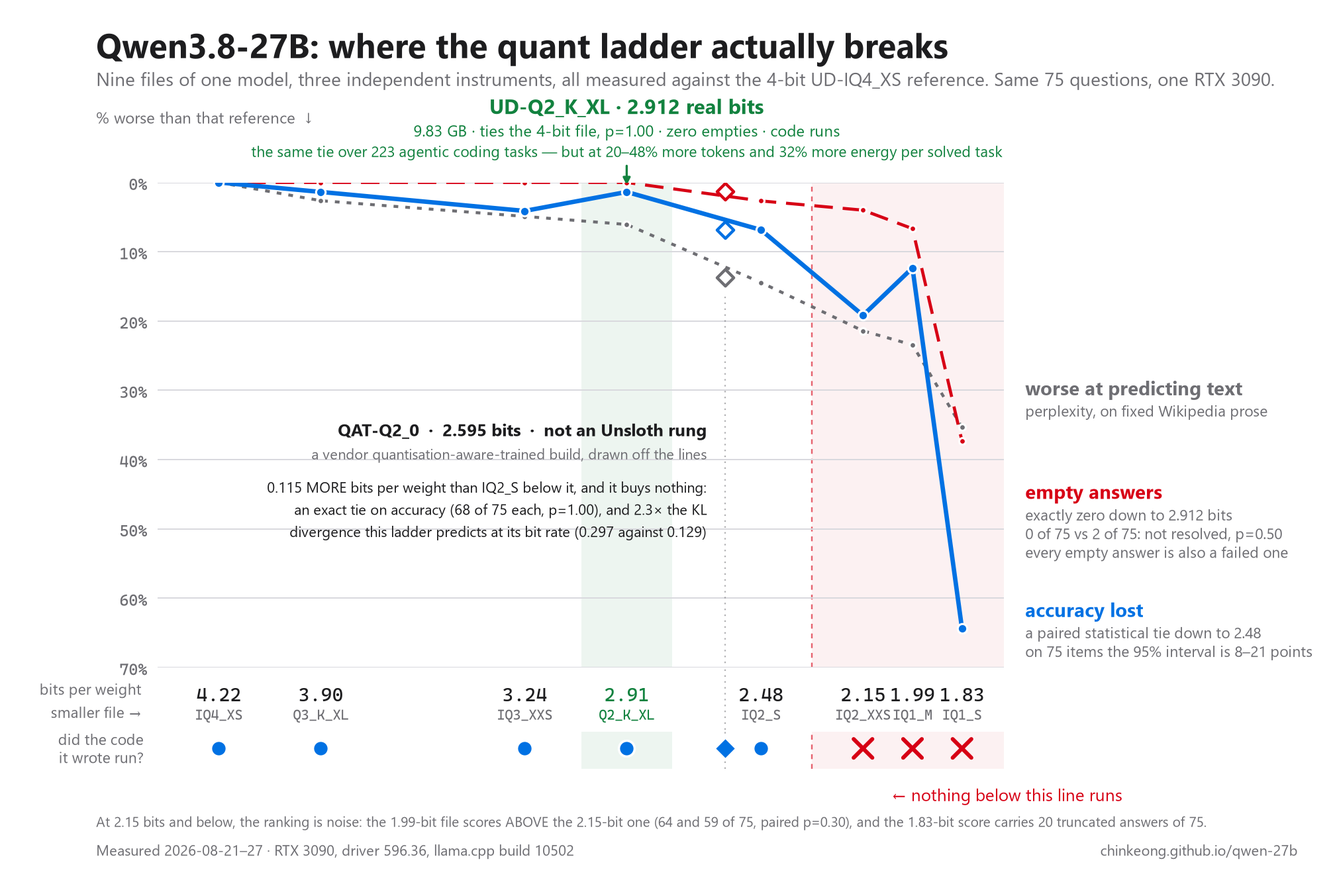
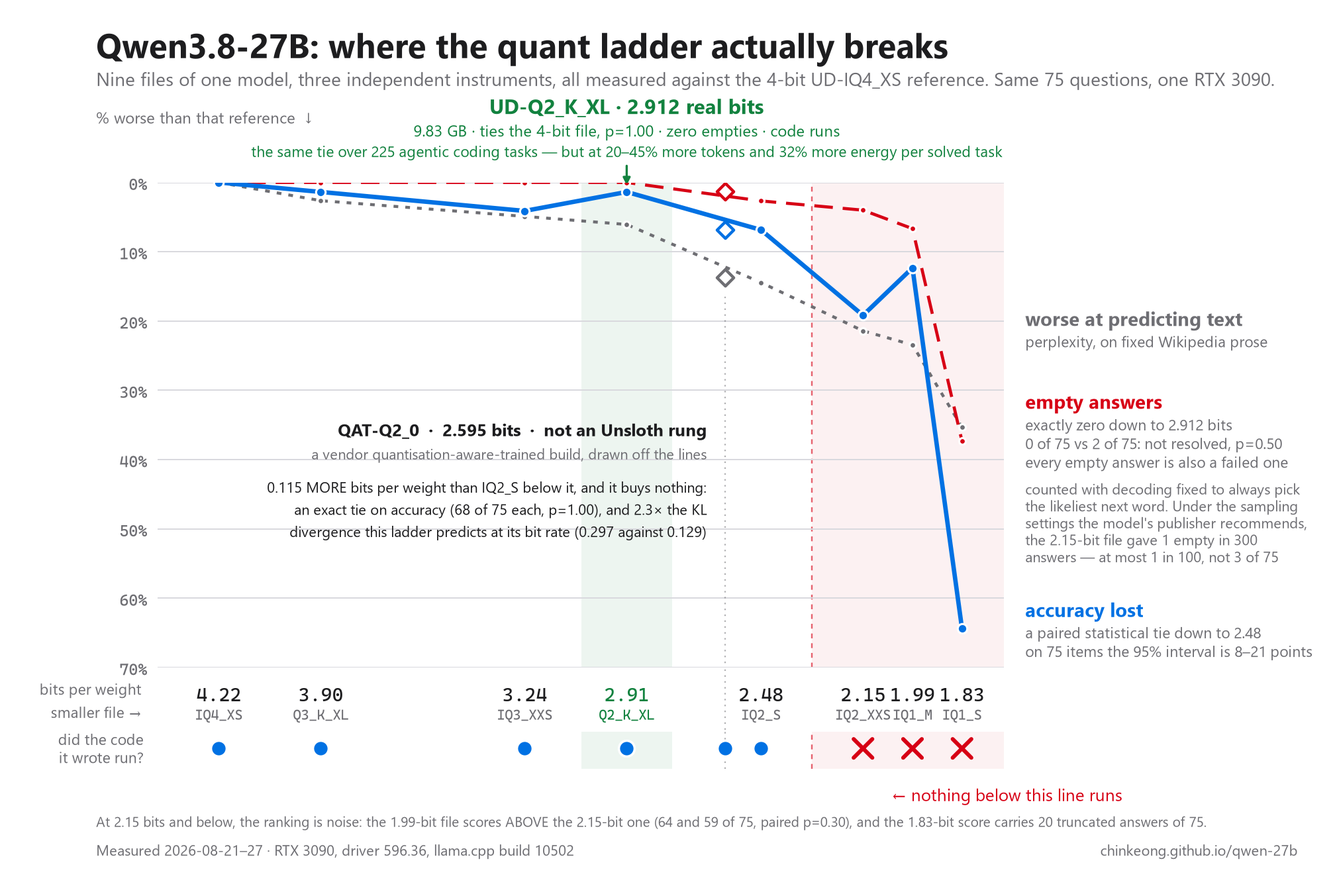
chart: two decisions applied, and the token range now agrees with the documents
CHART. The execute row's QAT-Q2_0 marker is an ordinary pass dot rather than a
diamond, so that row carries exactly two symbols again - it answers one yes/no
question and a third shape sent readers hunting for a third meaning. QAT stays
distinguished where it does real work: hollow diamonds on the three series, its
own annotation block, and its "not an Unsloth rung" label.

The empty-answer series now carries the caveat it needed. That column is counted
with decoding fixed to always pick the likeliest next word, and the campaign's
own runner says why that matters: "Greedy decoding cannot supply them: repeats
are identical, so re-running buys nothing. Sampling can, and sampling is what a
reader actually uses." Measured, from data\overnight\empties-power.json: under
the publisher's recommended sampling settings the 2.15-bit file gave 1 empty in
300 answers, at most 1 in 100, against the 3 of 75 the chart plots. A factor of
twelve, and without the line a reader takes 4% as a property of the file when it
is a property of the file AND the setting.

Two constraints were held in code rather than by care. The generator now refuses
to draw if the caveat's file drifts to the recommended side of the boundary, or
if the execute probe stops separating IQ2_S from IQ2_XXS - because the caveat
qualifies one series and must never soften the 2.481/2.153 break, which rests on
the execute probe and perplexity. And the unfinished UD-IQ1_M row in that JSON is
[…]

Changed region(s): [[0.75, 0.3438, 0.9688, 0.6562]]

diff --git a/qwen-27b/index.html b/qwen-27b/index.html
@@ -1720,7 +1720,7 @@ llama-server -c 32768 -ngl 99 --parallel 1 -ctk q8_0 -ctv q8_0 --jinja --port 12
 <section id="s08">
   <p class="fno">08</p>
   <h2>Which file to download</h2>
-  <p>On a 24&nbsp;GB card, download <strong>UD-IQ4_XS</strong> from unsloth for everyday use, or <strong>Q4_K_M</strong> from lmstudio-community if you want the highest measured quality and can accept that it leaves only about 0.3&nbsp;GiB of the card for your desktop. Two files of the same size from different quantizers really can differ in quality, so the choice is not arbitrary — but between these two the measured difference is 0.9% of perplexity, which is smaller than the uncertainty of the measurement itself, while the size difference is 2.1&nbsp;GiB and buys you either the vision projector or about 50,000 more tokens of window. If you have a 16&nbsp;GB card, take <strong>UD-Q2_K_XL</strong> — the memory each file and window needs is now measured rather than estimated, and it is the 2.9-bit file, not the 3-bit one, that fits a 65,536-token window with its drafter still switched on (<a href="#s08-requirement">the requirement table below</a>); if you have 32&nbsp;GB, <strong>Q6_K</strong>; and if you have a Blackwell card and can run vLLM, the NVFP4 build is the one that runs natively there. <strong>If you have 12&nbsp;GB, the answer is no</strong> — not a smaller quantization of this model, but a smaller model. <strong>And the 24&nbsp;GB answer is the interesting result of this revision: the right file now depends on how big a window you want, and there are three answers rather than one.</strong> Up to about 98,000 tokens, stay on UD-IQ4_XS. At about 131,000, <strong>UD-Q3_K_XL</strong> decodes 20% faster on this page's fill and ties the reference file on accuracy. At the full native 262,144, <strong>UD-Q2_K_XL</strong> is the faster one and the only one that can still speculate. All three are measured; the ladder that settles the quality half starts at <a href="#s08-ladder">the eight-rung table below</a>, the memory and speed each configuration needs is in <a href="#s08-requirement">the requirement table</a>, and the card-by-card verdicts are in <a href="#s08-cards">the last part of this section</a>. <strong>And there is now a coding-benchmark answer to the 2-bit question, which is new in this revision: on 225 programming exercises the 2-bit file finishes with exactly the same score as the 4-bit one and pays 20 to 55% more tokens, 20 to 36% more time and about 32% more energy for every exercise it solves</strong> (<a href="#s08-coding">the coding-benchmark part below</a>). Take the 2-bit file when you need the 4.4&nbsp;GB of VRAM it saves; otherwise take the 4-bit one.</p>
+  <p>On a 24&nbsp;GB card, download <strong>UD-IQ4_XS</strong> from unsloth for everyday use, or <strong>Q4_K_M</strong> from lmstudio-community if you want the highest measured quality and can accept that it leaves only about 0.3&nbsp;GiB of the card for your desktop. Two files of the same size from different quantizers really can differ in quality, so the choice is not arbitrary — but between these two the measured difference is 0.9% of perplexity, which is smaller than the uncertainty of the measurement itself, while the size difference is 2.1&nbsp;GiB and buys you either the vision projector or about 50,000 more tokens of window. If you have a 16&nbsp;GB card, take <strong>UD-Q2_K_XL</strong> — the memory each file and window needs is now measured rather than estimated, and it is the 2.9-bit file, not the 3-bit one, that fits a 65,536-token window with its drafter still switched on (<a href="#s08-requirement">the requirement table below</a>); if you have 32&nbsp;GB, <strong>Q6_K</strong>; and if you have a Blackwell card and can run vLLM, the NVFP4 build is the one that runs natively there. <strong>If you have 12&nbsp;GB, the answer is no</strong> — not a smaller quantization of this model, but a smaller model. <strong>And the 24&nbsp;GB answer is the interesting result of this revision: the right file now depends on how big a window you want, and there are three answers rather than one.</strong> Up to about 98,000 tokens, stay on UD-IQ4_XS. At about 131,000, <strong>UD-Q3_K_XL</strong> decodes 20% faster on this page's fill and ties the reference file on accuracy. At the full native 262,144, <strong>UD-Q2_K_XL</strong> is the faster one and the only one that can still speculate. All three are measured; the ladder that settles the quality half starts at <a href="#s08-ladder">the eight-rung table below</a>, the memory and speed each configuration needs is in <a href="#s08-requirement">the requirement table</a>, and the card-by-card verdicts are in <a href="#s08-cards">the last part of this section</a>. <strong>And there is now a coding-benchmark answer to the 2-bit question, which is new in this revision: on 225 programming exercises the 2-bit file finishes with exactly the same score as the 4-bit one and pays 20 to 45% more tokens, 20 to 36% more time and about 32% more energy for every exercise it solves</strong> (<a href="#s08-coding">the coding-benchmark part below</a>). Take the 2-bit file when you need the 4.4&nbsp;GB of VRAM it saves; otherwise take the 4-bit one.</p>
   <div class="callout"><span class="tag">How far down can you go? The short answer, measured 2026-08-24 and 2026-08-25</span><p><strong>The advice has not changed: stop at about 9&nbsp;GiB. The reason it was given has, and the old reason was wrong.</strong> Earlier editions of this page said that quality falls about 1% of perplexity per gigabyte saved down to roughly 2.9 bits per weight and about five times that below it, and inferred "stop at 9&nbsp;GiB" from the shape of that curve. The per-gigabyte figures were right. The inference was not. <strong>2.9 bits per weight is not the point after which quality starts to degrade — it is the last size that still <em>performs</em> like the full-quality file.</strong></p><p>Four instruments now sit beside every rung, and they have different sensitivities. <strong>Perplexity</strong> falls with every step from the very top, so it never had a flat stretch that could mark a beginning. <strong>Task accuracy is flat</strong> from 4.22 bits per weight down through 2.91 — the same 75 questions score 97.30, 96.00, 93.30 and 96.00 — and one rung further down, at 2.48, it is still a statistical tie with the 4-bit file. <strong>Empty answers</strong>, the failure a reader actually notices, number <em>exactly zero</em> at every rung down to and including 2.91, then rise 2, 3, 5, 28 below it (<a href="#s08-empty">the full table</a>). Take the second and third together and 2.9 bits is where "still behaves like the big file" ends, not where quality begins to fall.</p><p><strong>Where it stops <em>working</em> is lower still, and it fails in a way no quality curve predicted.</strong> The smallest file measured, at 1.835 bits per weight, does not merely answer badly: it loses the ability to stop. Twenty of its 75 answers ran into the token cap, its median answer is 932 tokens against 424 at the top of the ladder, and one arm took two and a half hours where the next longest took thirty-six minutes.</p><p><strong>The fourth instrument settles where &ldquo;stops working&rdquo; actually begins, and it is two rungs higher than that.</strong> <span class="chip m">meas</span> On 2026-08-25 the JavaScript each file had written was rebuilt and <em>run</em>. Everything down to <strong>2.481</strong> bits per weight executes and prints its answer; at <strong>2.153</strong> and below <em>none</em> of it does &mdash; one throws a <code>TypeError</code>, two do not even parse &mdash; while the prose around the code still reads perfectly well (<a href="#s08-execute">the execute probe</a>). <strong>Earlier editions put the working floor at 1.835</strong> <span class="sup">SUPERSEDED</span>, on detectors that only ever read the output. Note what this does to the four answers: the two instruments that examine <em>text</em> disagree with each other, and the two that ask whether the model <em>works</em> &mdash; a paired accuracy test and a parser, sharing no machinery at all &mdash; break at the same rung. Four instruments, and the agreement is as informative as the disagreement.</p><p><span class="hint">This is the summary. The eight-rung table and the paired tests behind the word "tie" are in <a href="#s08-ladder">the part below</a>, the empty-answer audit in full is in <a href="#s08-empty">the one after it</a>, what each file and window needs in memory is in <a href="#s08-requirement">the requirement table</a>, which file is fastest at which window is in <a href="#s08-fastest">the part after that</a>, and what to download for a 24, 16 or 12&nbsp;GB card is in <a href="#s08-cards">the last part of this section</a>. <a href="#s15-runs">§15</a> still lists what is measured and what is not — including the two things this ladder does <em>not</em> establish: speed and fit on any card that is not this 24&nbsp;GB 3090.</span></p></div>
   <div class="tablebox">
   <table class="wide-table" style="min-width:680px">
@@ -1728,7 +1728,7 @@ llama-server -c 32768 -ngl 99 --parallel 1 -ctk q8_0 -ctv q8_0 --jinja --port 12
     <tr><th>Size class</th><th>Best file</th><th>Weights (GB · GiB)</th><th>Notes</th></tr>
     <tr><td>4-bit GGUF (the default class — the comparison at the end of this section splits Q4_K_M against UD-IQ4_XS)</td><td><a href="https://huggingface.co/lmstudio-community/Qwen3.8-27B-GGUF"><b>Q4_K_M</b></a> · lmstudio-community (or <a href="https://huggingface.co/unsloth/Qwen3.8-27B-GGUF">UD-Q4_K_XL</a>)</td><td class="n">16.5 GB<br>15.4 GiB</td><td>settled by measurement 2026-08-22: wikitext-2 perplexity (the table below) came out 2.3% in Q4_K_M's favour against UD-Q4_K_XL, and a 200-question GSM8K comparison agreed within noise — <b>though that GSM8K comparison is now unaudited, see the warning below</b>. Unsloth's claim that the XL file stays about 10% closer to the full-precision model's own next-token probabilities is measured on their own calibration text and is relative, worth 1–3 true accuracy points at most. With quality tied, the 1&nbsp;GiB decides: Q4_K_M's extra gigabyte of slack holds about 23,800 more resident context tokens at the measured slope, or the vision projector (<a href="#s03">§03</a>)</td></tr>
     <tr class="hl"><td>3-bit GGUF — and, on 24&nbsp;GB, the pick at about a 131,072-token window</td><td><a href="https://huggingface.co/unsloth/Qwen3.8-27B-GGUF"><b>UD-Q3_K_XL</b></a> · unsloth</td><td class="n">13.1 GB<br>12.2 GiB</td><td><b>Measured here as of 2026-08-24</b>: perplexity <b>6.7691 ± 0.047</b>, which is <b>+2.63%</b> against the 4-bit UD-IQ4_XS file this page ships — the cheapest quality step down on the whole ladder, at 1.03 GiB saved — and it <b>ties that file on 75 paired benchmark items</b>, <code>p</code>=1.00. Every functional detector passes (<a href="#s02">§02</a>). <b>New on 2026-08-25:</b> at <code>-c 131072</code>, deep-filled with prose, it decodes <b>41.74&nbsp;t/s against UD-IQ4_XS's 34.68</b> and needs 19,724&nbsp;MiB against 20,848, which makes it the 24&nbsp;GB pick at that window (<a href="#s08-fastest">§08</a>). Qwen's own AD-IQ3_S reportedly scores slightly better (<a href="https://huggingface.co/Qwen/Qwen3.8-27B/discussions/65">next-token probability data</a>) but you have to request access to download it, and it is <em>not</em> measured here. <b>On a 16&nbsp;GB card, what it needs is now measured and what it would do is not</b>: at <code>-c 65536</code> with the drafter it asks for 16,906&nbsp;MiB, more than such a card has in total (<a href="#s08-requirement">§08</a>) — the memory figure transfers to any card, the speed figure never can</td></tr>
-    <tr class="hl"><td>2-bit GGUF — the 16&nbsp;GB pick, and on 24&nbsp;GB the full-window pick</td><td><a href="https://huggingface.co/unsloth/Qwen3.8-27B-GGUF"><b>UD-Q2_K_XL</b></a> · unsloth</td><td class="n">9.83 GB<br>9.154 GiB</td><td><b>Measured here 2026-08-24 and 2026-08-25</b>, and the surprise of this revision: at 2.912 real bits per weight it <b>ties the 4-bit reference file on 75 paired benchmark items</b> — they answered exactly one of the 75 differently, <code>p</code>=1.00 (<a href="#s02">§02</a>) — and returns <b>zero empty answers</b>, for +6.07% of perplexity. It is the smallest file on the ladder that still performs like the full-quality one. On a 24&nbsp;GB card it is <em>not</em> the daily pick — the drafter makes UD-IQ4_XS 12.9% faster at a short window — but at the full 262,144-token window it is 34% faster and the only one of the two that can still speculate (<a href="#s08-cards">§08</a>). <b>On a 16&nbsp;GB card its requirement is measured</b>: 13,982&nbsp;MiB at <code>-c 65536</code> with the drafter on, which fits inside such a card with 606&nbsp;MiB left after this page's desktop reserve (<a href="#s08-requirement">§08</a>). How fast it would run there is <b>not</b> measured and cannot be measured on this machine. <b>And one limit that matters more than speed:</b> almost everything on this page was measured on <b>single-turn prompts of at most 16,384 tokens</b>. Nothing here has tested a long agentic loop where a model calls tools dozens of times in a row. An independent tester (<a href="#s08-agentic">§08</a>) reports this file completing a web app in one shot but locking into an infinite tool-calling loop on a game-engine task. <b>Part of that gap is now measured rather than argued</b> (2026-08-26): on a 225-exercise coding benchmark whose harness shows the model its own failing unit tests and lets it try again, this file solves exactly as many exercises as the 4-bit reference &mdash; 96 of 225 each &mdash; and spends 20 to 55% more tokens, 20 to 36% more wall-clock time and about 32% more energy per solved exercise doing it (<a href="#s08-coding">&sect;08</a>). <b>That is a two-attempt repair loop and not a fifty-turn tool-calling loop, so the long-agentic caution below still stands unchanged.</b></td></tr>
+    <tr class="hl"><td>2-bit GGUF — the 16&nbsp;GB pick, and on 24&nbsp;GB the full-window pick</td><td><a href="https://huggingface.co/unsloth/Qwen3.8-27B-GGUF"><b>UD-Q2_K_XL</b></a> · unsloth</td><td class="n">9.83 GB<br>9.154 GiB</td><td><b>Measured here 2026-08-24 and 2026-08-25</b>, and the surprise of this revision: at 2.912 real bits per weight it <b>ties the 4-bit reference file on 75 paired benchmark items</b> — they answered exactly one of the 75 differently, <code>p</code>=1.00 (<a href="#s02">§02</a>) — and returns <b>zero empty answers</b>, for +6.07% of perplexity. It is the smallest file on the ladder that still performs like the full-quality one. On a 24&nbsp;GB card it is <em>not</em> the daily pick — the drafter makes UD-IQ4_XS 12.9% faster at a short window — but at the full 262,144-token window it is 34% faster and the only one of the two that can still speculate (<a href="#s08-cards">§08</a>). <b>On a 16&nbsp;GB card its requirement is measured</b>: 13,982&nbsp;MiB at <code>-c 65536</code> with the drafter on, which fits inside such a card with 606&nbsp;MiB left after this page's desktop reserve (<a href="#s08-requirement">§08</a>). How fast it would run there is <b>not</b> measured and cannot be measured on this machine. <b>And one limit that matters more than speed:</b> almost everything on this page was measured on <b>single-turn prompts of at most 16,384 tokens</b>. Nothing here has tested a long agentic loop where a model calls tools dozens of times in a row. An independent tester (<a href="#s08-agentic">§08</a>) reports this file completing a web app in one shot but locking into an infinite tool-calling loop on a game-engine task. <b>Part of that gap is now measured rather than argued</b> (2026-08-26): on a 225-exercise coding benchmark whose harness shows the model its own failing unit tests and lets it try again, this file solves exactly as many exercises as the 4-bit reference &mdash; 96 of 225 each &mdash; and spends 20 to 45% more tokens, 20 to 36% more wall-clock time and about 32% more energy per solved exercise doing it (<a href="#s08-coding">&sect;08</a>). <b>That is a two-attempt repair loop and not a fifty-turn tool-calling loop, so the long-agentic caution below still stands unchanged.</b></td></tr>
     <tr><td>6-bit GGUF (quality, 32 GB cards)</td><td><a href="https://huggingface.co/lmstudio-community/Qwen3.8-27B-GGUF"><b>Q6_K</b></a> · lmstudio-community</td><td class="n">22.4 GB<br>20.9 GiB</td><td>wins its size class; near-8-bit quality. Unmeasured here</td></tr>
     <tr><td>8-bit GGUF (reference)</td><td><a href="https://huggingface.co/lmstudio-community/Qwen3.8-27B-GGUF"><b>Q8_0</b></a> · lmstudio-community</td><td class="n">29 GB<br>27.0 GiB</td><td>the reference-quality choice, for machines that can hold it (DGX Spark; 32&nbsp;GB cards at short context). Unmeasured here</td></tr>
     <tr class="hl"><td>NVFP4 (native on Blackwell)</td><td><a href="https://huggingface.co/unsloth/Qwen3.8-27B-NVFP4"><b>Qwen3.8-27B-NVFP4</b></a> · unsloth, via vLLM</td><td class="n">~15 GB<br>~14.0 GiB</td><td>for Blackwell cards (RTX 50 / GB10 / B200): about 1.5× the speed of the unquantized model while keeping 92–97% of its accuracy, per the vendor. Runs only in vLLM — its FP8 output layer is not supported by llama.cpp or SGLang. <span class="chip">cited</span>, unmeasured here</td></tr>
@@ -2176,7 +2176,7 @@ llama-server -c 32768 -ngl 99 --parallel 1 -ctk q8_0 -ctv q8_0 --jinja --port 12
 
   <h3 id="s08-coding">2-bit against 4-bit on a 225-task coding benchmark: the same score, and not the same cost</h3>
   <p>Everything above ranks these files by perplexity, by a 75-item question set, and by whether the code they wrote will actually run. None of that says what happens when a model has to <em>repair</em> its own work, which is most of what coding with a model consists of. On 2026-08-26 the two candidate files were each run through <a href="#s14-aider">aider</a>&rsquo;s official polyglot benchmark &mdash; <strong>225 programming exercises across several languages, each one shipped with its own unit tests</strong> &mdash; one full arm per file. It is the closest this page comes to measuring these two files at the work most readers will actually give them.</p>
-  <p><strong>They finish level. They do not spend the same amount getting there.</strong> Both files solved <span class="num">96</span> of the 225 exercises, a <em>pass rate</em> &mdash; the share of exercises whose every unit test passed &mdash; of <span class="num">42.7</span>% each <span class="chip m">meas</span>. The verdict is therefore not in the score. It is in the bill: the 2-bit file needed <strong>about 20 to 55% more tokens</strong>, ran <strong>20 to 36% slower</strong>, and cost <strong>about 32% more energy for every exercise it solved</strong>. Those ranges are not vagueness. They come from counting the same thing more than one way &mdash; over every exercise an arm solved, and paired over only the exercises <em>both</em> arms solved &mdash; and each way is printed on its own line in the table below.</p>
+  <p><strong>They finish level. They do not spend the same amount getting there.</strong> Both files solved <span class="num">96</span> of the 225 exercises, a <em>pass rate</em> &mdash; the share of exercises whose every unit test passed &mdash; of <span class="num">42.7</span>% each <span class="chip m">meas</span>. The verdict is therefore not in the score. It is in the bill: the 2-bit file needed <strong>about 20 to 45% more tokens</strong>, ran <strong>20 to 36% slower</strong>, and cost <strong>about 32% more energy for every exercise it solved</strong>. Those ranges are not vagueness. They come from counting the same thing more than one way &mdash; over every exercise an arm solved, and paired over only the exercises <em>both</em> arms solved &mdash; and each way is printed on its own line in the table below.</p>
   <p><strong>The mechanism is what makes this worth remembering.</strong> The benchmark gives every exercise two attempts. The model writes an answer, the harness runs the unit tests, and if they fail the model is shown the failure and asked to fix its own mistake. <strong>Most of the successes on both files arrive on that second attempt</strong> &mdash; the 4-bit file took 69% of its passes that way and the 2-bit file 80%. That is the regime this whole comparison lives in, and it is where the two files separate. On the <em>first</em> attempt the 4-bit file solved <span class="num">13.3</span>% of the 225 exercises against the 2-bit file&rsquo;s <span class="num">8.4</span>% <span class="chip m">meas</span>. Because 2-bit quantisation introduces more noise, it misses clean first answers more often, so it leans harder on the repair step to catch up &mdash; and a repair costs a whole extra round of reading a failure and writing a fix. <strong>That extra fixing is the overhead, and the overhead is the entire finding, because the score is a tie.</strong></p>
   <div class="tablebox">
   <table class="wide-table" style="min-width:680px">
@@ -2196,7 +2196,7 @@ llama-server -c 32768 -ngl 99 --parallel 1 -ctk q8_0 -ctv q8_0 --jinja --port 12
   </div>
   <p style="font-size:14px"><b>Conditions, and they travel with every figure above</b> <span class="chip m">meas</span>: one RTX 3090 at its stock 350&nbsp;W board limit, llama.cpp, <a href="#s14-aider">aider</a>&rsquo;s official polyglot benchmark run <b>unmodified in its own container</b>, the <code>whole</code> edit format, <b>reasoning off</b>, a <b>32,768-token window</b>, <b>greedy sampling</b> (temperature 0), and <b>board power only</b> &mdash; read from the card&rsquo;s own sensor, which excludes the power supply&rsquo;s conversion loss, the processor, system memory, drives and the display (<a href="#s15-instruments">&sect;15</a>). The 4-bit file is <b>UD-IQ4_XS</b> at 14.25&nbsp;GB and the 2-bit file is <b>UD-Q2_K_XL</b> at 9.83&nbsp;GB; the difference between them is <b>4.4&nbsp;GB of VRAM</b>. One machine, one benchmark, one arm per file. And the sampler caveat this page attaches everywhere else applies here too: greedy decoding holds the text still so that the file is the only thing changing, but the recipes in <a href="#s03">&sect;03</a> ship <code>--temp 1.0 --top-p 0.95 --top-k 20</code>, which is not what was run here.</p>
   <div class="callout warn"><span class="tag">The 60 disagreements are an upper bound, not a measurement of what quantisation did</span><p><strong>The two files do not solve the same 96 exercises.</strong> Sixty of the 225 were solved by exactly one of them, thirty by each, so the tie in the score is a tie in the total rather than agreement about which work is within reach. <strong>Read 60 as a ceiling on what the quantisation explains, and not as the amount it explains.</strong> The reason is that this benchmark&rsquo;s own <em>flip rate</em> &mdash; how many exercises change verdict when the <em>same</em> file is run twice with nothing changed at all &mdash; is <strong>not zero</strong>, and <strong>its size has never been measured here</strong>. Two things are known about it and no more. First, greedy decoding is byte-reproducible on this rig only when the work is shaped the same way twice. &sect;10 measured that directly and it held: 139 of 139 prompts reproduced byte-for-byte when the cap and the window were raised. An agentic run is the case that does NOT hold it fixed &mdash; context length, cache reuse and how many speculated tokens are accepted all differ from request to request, and a change in the shape of a batch changes the order of a reduction, which flips a near-tie between two candidate tokens &mdash; the same effect <a href="#s06-sweep">&sect;06</a> measured as about 1% of answer length between configurations that should have produced identical text. Second, 69% of the 4-bit file&rsquo;s passes and 80% of the 2-bit file&rsquo;s arrive as a repair after a failure, and that is exactly the regime in which a small perturbation flips an outcome most easily. <strong>A same-file repeat of one arm is the measurement that would size it, and it is a pending item</strong> (<a href="#s15-negative">&sect;15</a>). Until it is run, this page puts no number on the flip rate, and nobody quoting these arms should either.</p></div>
-  <div class="callout"><span class="tag">The verdict, for someone choosing a file tonight</span><p><strong>2-bit works, and it reaches the same final accuracy. It is less stable getting there and it is more expensive.</strong> Take <b>UD-Q2_K_XL</b> when you need the <b>4.4&nbsp;GB of VRAM</b> it saves &mdash; on a 16&nbsp;GB card, where it is this page&rsquo;s pick because the larger files do not fit (<a href="#s08-requirement">&sect;08</a>), or on a 24&nbsp;GB card at the full native window, where it is the only one of the two that can still speculate (<a href="#s08-cards">&sect;08</a>). <strong>Otherwise take the 4-bit file.</strong> Paying 20 to 55% more tokens and about 32% more energy per solved exercise to arrive at the same score is a poor trade whenever the memory is there to avoid it. And the shape of the result is worth carrying away on its own: the 2-bit file is genuinely the cheaper of the two <em>per token</em> and still the more expensive one <em>per finished job</em>, because it needs so many more tokens. A cheaper token is not a cheaper answer.</p></div>
+  <div class="callout"><span class="tag">The verdict, for someone choosing a file tonight</span><p><strong>2-bit works, and it reaches the same final accuracy. It is less stable getting there and it is more expensive.</strong> Take <b>UD-Q2_K_XL</b> when you need the <b>4.4&nbsp;GB of VRAM</b> it saves &mdash; on a 16&nbsp;GB card, where it is this page&rsquo;s pick because the larger files do not fit (<a href="#s08-requirement">&sect;08</a>), or on a 24&nbsp;GB card at the full native window, where it is the only one of the two that can still speculate (<a href="#s08-cards">&sect;08</a>). <strong>Otherwise take the 4-bit file.</strong> Paying 20 to 45% more tokens and about 32% more energy per solved exercise to arrive at the same score is a poor trade whenever the memory is there to avoid it. And the shape of the result is worth carrying away on its own: the 2-bit file is genuinely the cheaper of the two <em>per token</em> and still the more expensive one <em>per finished job</em>, because it needs so many more tokens. A cheaper token is not a cheaper answer.</p></div>
 
   <h3 id="s08-agentic">The limit that remains: nothing here has watched a long agentic loop</h3>
   <p>Almost every number on this page comes from <strong>single-turn prompts of at most 16,384 tokens</strong>. You ask once, the model answers once, and the answer is scored. The coding benchmark above is the one exception, and it is a modest one: it gives the model a second attempt with its own test failure in front of it, which is two turns rather than one. That is still not how a coding agent works. An agent calls a tool, reads the result, calls another, and keeps going for dozens of turns &mdash; and a model that goes wrong once in fifty turns will fail an agent while scoring perfectly here. <strong>So the smaller files on this page are measured over one turn and over two, and nothing here has ever watched one run for fifty.</strong></p>
@@ -2204,7 +2204,7 @@ llama-server -c 32768 -ngl 99 --parallel 1 -ctk q8_0 -ctv q8_0 --jinja --port 12
   <p>A video published as <em>"Qwen 3.8 27B Quantizations Q1 - Q8 compared"</em> (channel reported as Luke's Dev Lab; the title was confirmed but the video was not watched from this machine, so everything below is <span class="chip c">cited</span> from a viewer's written breakdown rather than measured here) ran the same unsloth files at <strong>high</strong> reasoning effort against three multi-turn agentic tasks: a Kanban web app, a Blender 3D asset job over MCP, and a Godot 4 game.</p>
   <p><strong>Where it agrees with this page.</strong> It found <code>UD-Q2_K_XL</code> one-shotting a full web app with no intervention and recommends it for 16&nbsp;GB cards — which is this page's 16&nbsp;GB pick, reached independently from perplexity, paired accuracy and a memory requirement. It found the 4-bit class the overall sweet spot, which is what this page ships. And it found <code>IQ1_M</code> unusable on every task, failing by locking into infinite loops — the same failure this page detected from short prompts at no GPU cost, as <strong>five empty answers out of 75, every one of them terminating normally and returning nothing</strong> (<a href="#s08-empty">§08</a>). That agreement matters in a specific way: this page's <em>accuracy</em> score for that file was 85.30, which looks survivable. The empty-answer count was the number that saw the problem.</p>
   <p><strong>Where it finds something this page cannot see.</strong> It reports <code>UD-Q2_K_XL</code> <em>and</em> <code>UD-Q3_K_XL</code> both failing the Godot task — one locking into a tool-calling loop immediately, the other generating crashing scripts until the project was unusable. Both of those files return <strong>zero</strong> empty answers here and tie the 4-bit reference on paired accuracy. There is no contradiction: those are long multi-turn runs, and nothing on this page tested one. Error compounding across turns is precisely the failure mode a single-turn benchmark is blind to.</p>
-  <p><strong>What to take from it.</strong> If you are running chat, single-file coding, or web work, the recommendations above stand and now have independent support. <strong>If you are running an agent, the 2.9-bit file is no longer untested &mdash; it is measured over two turns and unmeasured beyond them.</strong> Two full 225-exercise arms have now been run, one per file, and on that benchmark the 2.9-bit file matches the 4-bit one&rsquo;s final score while spending 20 to 55% more tokens to reach it (<a href="#s08-coding">the part above</a>). What that does <em>not</em> establish is a loop of dozens of tool calls, and the caution that survives is a specific one rather than a blanket one: <b>one machine, one benchmark, one arm per file, reasoning off</b>. The files below 4 bits that were <em>not</em> in that run remain untested for this kind of work. Try any of them on your own workflow before trusting it, and watch specifically for a loop that never terminates rather than for wrong answers. That tester also went above 4 bits, to Q5, Q6 and Q8, and reports those needed for the hardest visual and game-logic work; <strong>this page measured nothing above 4.4 bits per weight</strong> and has no opinion there at all.</p></div>
+  <p><strong>What to take from it.</strong> If you are running chat, single-file coding, or web work, the recommendations above stand and now have independent support. <strong>If you are running an agent, the 2.9-bit file is no longer untested &mdash; it is measured over two turns and unmeasured beyond them.</strong> Two full 225-exercise arms have now been run, one per file, and on that benchmark the 2.9-bit file matches the 4-bit one&rsquo;s final score while spending 20 to 45% more tokens to reach it (<a href="#s08-coding">the part above</a>). What that does <em>not</em> establish is a loop of dozens of tool calls, and the caution that survives is a specific one rather than a blanket one: <b>one machine, one benchmark, one arm per file, reasoning off</b>. The files below 4 bits that were <em>not</em> in that run remain untested for this kind of work. Try any of them on your own workflow before trusting it, and watch specifically for a loop that never terminates rather than for wrong answers. That tester also went above 4 bits, to Q5, Q6 and Q8, and reports those needed for the hardest visual and game-logic work; <strong>this page measured nothing above 4.4 bits per weight</strong> and has no opinion there at all.</p></div>
 </section>
 <section id="s09">
   <p class="fno">09</p>
@@ -2742,7 +2742,7 @@ llm-pi-ai:
     <li><b>The short-context speed band was published as 71–84&nbsp;t/s.</b> Its lower endpoint came from one live check of the vision recipe whose <em>token regime was never recorded</em> — the one thing this page says no speed number may lack. Rebuilt from two measurements that do carry their regime: 83.5&nbsp;t/s on a novel code prompt at <code>-c 32768</code> and 86.3 at a 1,458-token fill under the cooled protocol, both answer tokens at the shipped flags. The band is now <b>83–86&nbsp;t/s</b>, and the 71.3 figure is kept only as a labelled loose end. <a href="#s03">§03</a>, <a href="#s12">§12</a></li>
     <li><b>The drafter-off floor was printed as 39.7–43.8&nbsp;t/s, and prose speculation was credited with 1.16×.</b> Both were inherited from a summary bullet in the campaign log that this page checked against the log's own table and found wrong. <b>43.80&nbsp;t/s is a drafter-ON prose figure</b>, so it cannot be a floor endpoint; the measured drafter-off floor for this file is 41.46–42.97 across five contents and both token regimes. And 43.80 ÷ 41.55 is <b>1.05×</b>, not 1.16× — the 1.16× belongs to <code>n4/p0.75</code>'s 48.35&nbsp;t/s on the same content, which is what the log's own "best vs floor" column says. <a href="#s06-band">§06</a></li>
     <li><b>Three memory budgets converted MiB to GiB by dividing by 1000.</b> The 262,144-token window costs 9,984&nbsp;MiB (9.75&nbsp;GiB, not "9.98"), that configuration totals 23,216&nbsp;MiB (22.7&nbsp;GiB, not "23.2"), and the worked vision example totals 21,556&nbsp;MiB (21.05&nbsp;GiB, not "21.6"). The slack figures those pages quoted were right; the GiB labels were not. <a href="#s05-budget">&sect;05</a></li>
-    <li><b>&ldquo;Treat every file below 4 bits as untested for agentic work.&rdquo;</b> That was true when it was written and it is no longer true of the file this page recommends. Two full 225-exercise arms of aider&rsquo;s polyglot coding benchmark &mdash; one per file, every exercise carrying its own unit tests and a second attempt after a failure is shown &mdash; were run on 2026-08-26. <b>UD-Q2_K_XL and UD-IQ4_XS finish level at 96 of 225 each</b>, and the 2-bit file pays 20 to 55% more tokens, 20 to 36% more wall-clock time and about 32% more energy per solved exercise to get there. What is still untested is a loop of dozens of tool calls, which is a narrower claim and is still on the page. <a href="#s08-coding">&sect;08</a></li>
+    <li><b>&ldquo;Treat every file below 4 bits as untested for agentic work.&rdquo;</b> That was true when it was written and it is no longer true of the file this page recommends. Two full 225-exercise arms of aider&rsquo;s polyglot coding benchmark &mdash; one per file, every exercise carrying its own unit tests and a second attempt after a failure is shown &mdash; were run on 2026-08-26. <b>UD-Q2_K_XL and UD-IQ4_XS finish level at 96 of 225 each</b>, and the 2-bit file pays 20 to 45% more tokens, 20 to 36% more wall-clock time and about 32% more energy per solved exercise to get there. What is still untested is a loop of dozens of tool calls, which is a narrower claim and is still on the page. <a href="#s08-coding">&sect;08</a></li>
     <li><b>&ldquo;bits per weight &rarr; smaller file &middot; worse is higher&rdquo; on the ladder figure.</b> Worse is drawn <em>further down</em>. That figure&rsquo;s vertical scale runs 0% at the top to 60% near the bottom, so a larger loss is a lower point, and the note contradicted the drawing it labelled. The drawing was right: every plotted point was re-checked against the tables beside it and all twenty-four agree. Only the note was wrong, and it is corrected. <a href="#s08-ladder">&sect;08</a></li>
     <li><b>&ldquo;On agreement, UD-IQ2_XXS and UD-IQ1_M are 15 sigma apart.&rdquo;</b> They are <b>10.9</b> sigma apart. The gap had been divided by one file&rsquo;s standard error instead of by the combined error of the difference &mdash; the square root of the sum of the two squares, which is the rule this page already applies to perplexity two parts earlier. Every separation in that part was printed about a third too large: the 17-sigma figure is 11.8, and the &ldquo;error near 0.13&rdquo; is 0.17 to 0.27. <b>No conclusion in that part changes</b> &mdash; every rung still separates cleanly, the narrowest at 11 sigma &mdash; but the numbers do. <a href="#s08-agree">&sect;08</a></li>
     <li><b>&ldquo;Every file whose code ran had followed both of the execution probe&rsquo;s instructions.&rdquo;</b> Two files break that. <code>UD-IQ2_S</code> continued the file as asked but wrapped it in the markdown fences the prompt forbade, and its program runs; the cross-model <code>gemma-4-12B-QAT-Q4_0</code> followed both instructions exactly and produced code that does not parse. Ignoring the shape you asked for came before every failure in this probe, but it does not predict one, and the paragraph now says which direction the rule runs in. <a href="#s08-execute">&sect;08</a></li>
